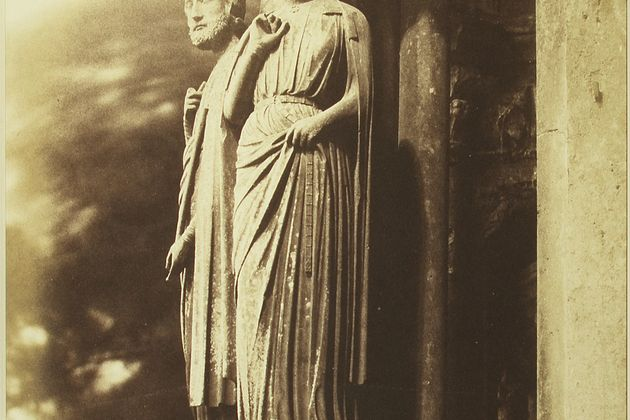
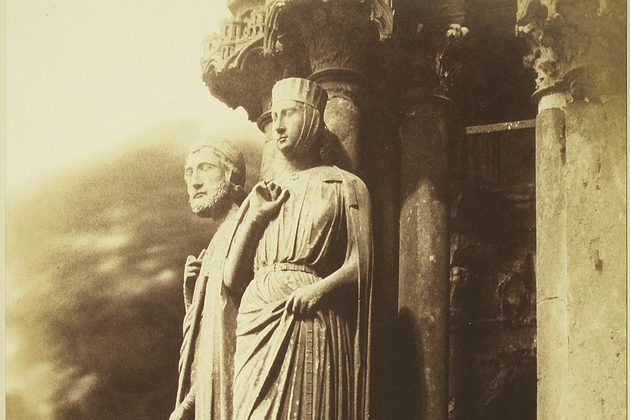
[DRAFT COPY] Fix history strip: real root cause was container shape, not crops
Still a draft, not yet approved - on the sandbox branch, not pushed to main.

Mark's report ("the bust chops the head off and the illustration doesn't
show the face") pointed at a bug in the layout mechanism, not just bad
image framing. Each tile was flex:1 1 0 inside a 2in-tall row, which at
12 tiles renders each one ~100px wide x 192px tall - a portrait-shaped
box. object-fit:cover on a landscape 630x420 source inside a portrait
box crops hard from the sides, showing an arbitrary vertical sliver of
whatever was in the middle of each image - that's what was actually
chopping heads and hiding faces, independent of how any single image
was cropped.

Fixed properly: tiles are now a fixed 3in x 2in (2.1in x 1.4in on
mobile), and the strip scrolls horizontally (overflow-x:auto,
scroll-snap) instead of squeezing an arbitrary number of tiles into one
fixed-width row. This also makes the earlier .hs-mobile-hide
tile-hiding hack unnecessary - removed it - since a fixed tile size
handles any image count on any screen width without distortion.

Separately, the Chartres statue crop (chartres-cathedral.jpg) itself
also genuinely chopped both figures' heads before this fix - recropped
from the original source with both heads fully in frame.

diff --git a/cic-website/index.html b/cic-website/index.html
@@ -59,14 +59,14 @@ p{margin:0 0 1rem}
   .site-header .row{gap:.1rem 1rem}
 }
 
-.history-strip{display:flex;width:100%;height:2in;overflow:hidden;background:var(--surface)}
-.history-strip>a,.history-strip>img{flex:1 1 0;min-width:0}
+.history-strip{display:flex;width:100%;height:2in;overflow-x:auto;overflow-y:hidden;overscroll-behavior-x:contain;scroll-snap-type:x proximity;background:var(--surface)}
+.history-strip>a,.history-strip>img{flex:0 0 3in;width:3in;height:2in;scroll-snap-align:start}
 .history-strip>a{display:block;position:relative;overflow:hidden}
 .history-strip img{width:100%;height:100%;object-fit:cover;display:block;filter:saturate(.85);transition:filter .2s,transform .2s}
 .history-strip>a:hover img,.history-strip>a:focus-visible img{filter:saturate(1);transform:scale(1.03)}
 @media (max-width:640px){
   .history-strip{height:1.4in}
-  .history-strip>.hs-mobile-hide{display:none}
+  .history-strip>a,.history-strip>img{flex-basis:2.1in;width:2.1in;height:1.4in}
 }
 @media (prefers-reduced-motion:reduce){ .history-strip>a:hover img,.history-strip>a:focus-visible img{transform:none} }
 
@@ -188,17 +188,17 @@ p{margin:0 0 1rem}
 </header>
 
 <div class="history-strip" role="group" aria-label="Images from across the Church's 2000-year history">
-  <img class="hs-mobile-hide" src="assets/history-era-spanning/priscilla-fresco.jpg" alt="Fresco of a Christian Agape feast, Catacombs of Priscilla, Rome, 2nd-4th century" loading="eager" decoding="async">
+  <img src="assets/history-era-spanning/priscilla-fresco.jpg" alt="Fresco of a Christian Agape feast, Catacombs of Priscilla, Rome, 2nd-4th century" loading="eager" decoding="async">
   <img src="assets/history-era-spanning/etchmiadzin-cathedral.jpg" alt="Etchmiadzin Cathedral, Armenia, founded 301 CE" loading="eager" decoding="async">
-  <img class="hs-mobile-hide" src="assets/history-era-spanning/holy-sepulchre.jpg" alt="The Church of the Holy Sepulchre, Jerusalem" loading="eager" decoding="async">
-  <a class="hs-mobile-hide" href="traditions/desert-monasticism.html"><img src="assets/history/desert.jpg" alt="The Monastery of Saint Macarius, Egypt" loading="eager" decoding="async"></a>
+  <img src="assets/history-era-spanning/holy-sepulchre.jpg" alt="The Church of the Holy Sepulchre, Jerusalem" loading="eager" decoding="async">
+  <a href="traditions/desert-monasticism.html"><img src="assets/history/desert.jpg" alt="The Monastery of Saint Macarius, Egypt" loading="eager" decoding="async"></a>
   <img src="assets/history-era-spanning/book-of-kells.jpg" alt="An illuminated Gospel manuscript, Metropolitan Museum of Art, c. 1400" loading="eager" decoding="async">
-  <img class="hs-mobile-hide" src="assets/history-era-spanning/lalibela.jpg" alt="The rock-hewn churches of Lalibela, Ethiopia, 12th-13th century" loading="eager" decoding="async">
+  <img src="assets/history-era-spanning/lalibela.jpg" alt="The rock-hewn churches of Lalibela, Ethiopia, 12th-13th century" loading="eager" decoding="async">
   <img src="assets/history-era-spanning/chartres-cathedral.jpg" alt="Large figures on the north porch, Chartres Cathedral, 1852 salted-paper print" loading="eager" decoding="async">
-  <img class="hs-mobile-hide" src="assets/history-era-spanning/st-francis-kochi.jpg" alt="St. Francis Church, Fort Kochi, India, founded 1503" loading="eager" decoding="async">
+  <img src="assets/history-era-spanning/st-francis-kochi.jpg" alt="St. Francis Church, Fort Kochi, India, founded 1503" loading="eager" decoding="async">
   <img src="assets/history-era-spanning/martin-luther-portrait.jpg" alt="Engraved portrait of Martin Luther in a doctoral cap, Metropolitan Museum of Art" loading="eager" decoding="async">
-  <img class="hs-mobile-hide" src="assets/history-era-spanning/st-basils-moscow.jpg" alt="Saint Basil's Cathedral, Moscow, built 1555-1561" loading="eager" decoding="async">
-  <img class="hs-mobile-hide" src="assets/history-era-spanning/st-peters-basilica.jpg" alt="St. Peter's Basilica, Vatican City, consecrated 1626" loading="eager" decoding="async">
+  <img src="assets/history-era-spanning/st-basils-moscow.jpg" alt="Saint Basil's Cathedral, Moscow, built 1555-1561" loading="eager" decoding="async">
+  <img src="assets/history-era-spanning/st-peters-basilica.jpg" alt="St. Peter's Basilica, Vatican City, consecrated 1626" loading="eager" decoding="async">
   <img src="assets/history-era-spanning/azusa-street.jpg" alt="The Apostolic Faith Mission on Azusa Street, Los Angeles, photographed 1907" loading="eager" decoding="async">
 </div>
 
